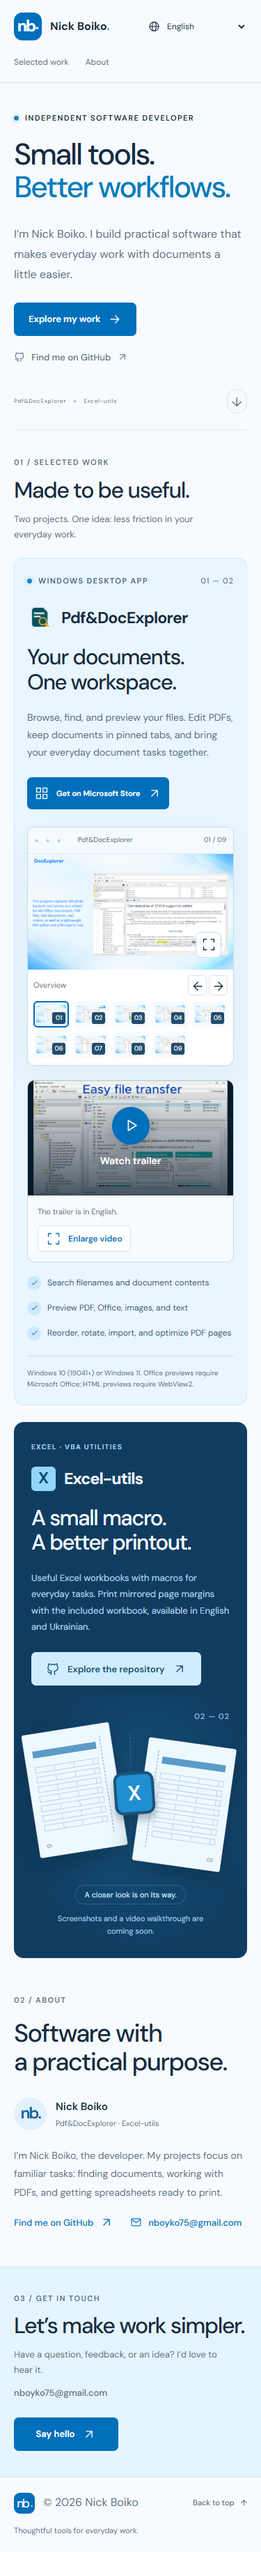
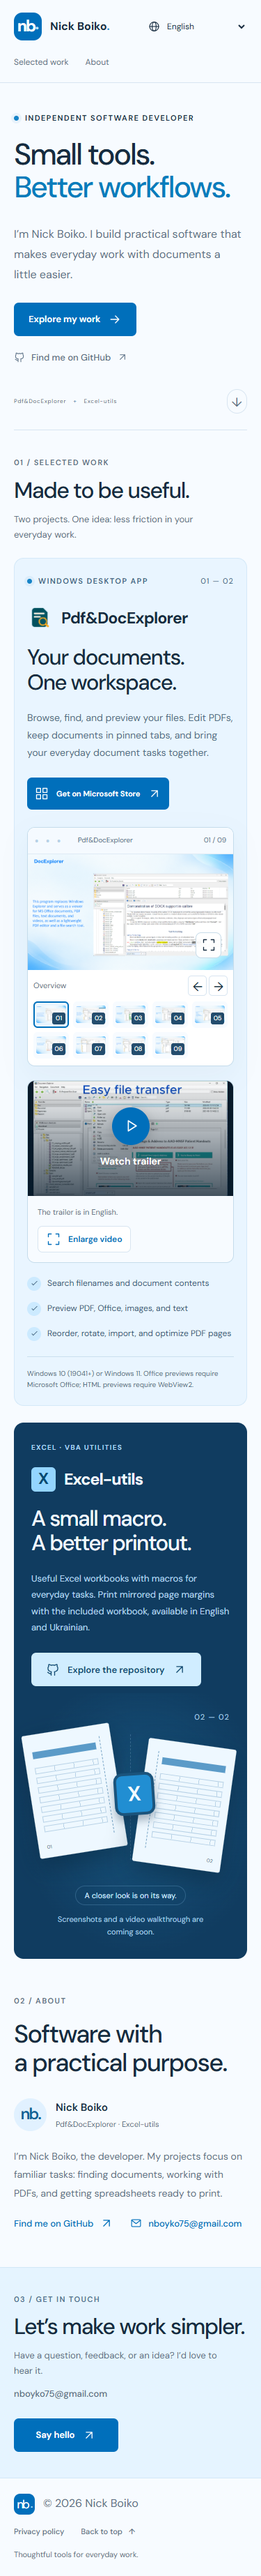
Added privacy page

Changed region(s): [[0.0293, 0.0311, 0.9387, 0.9964], [0.6747, 0.0623, 0.88, 0.0934]]

diff --git a/lib/privacy.ts b/lib/privacy.ts
@@ -1,0 +1,160 @@
+import type { Locale } from "./i18n";
+
+export const privacyUpdated = "2026-10-24";
+export const privacyEmail = "nboyko75@gmail.com";
+
+type PrivacyCopy = {
+  title: string;
+  home: string;
+  updated: string;
+  intro: string;
+  contact: string;
+  contactBody: string;
+  sections: { title: string; body: string }[];
+};
+
+export const privacyCopy: Record<Locale, PrivacyCopy> = {
+  en: {
+    title: "Privacy policy", home: "Back to home", updated: "Last updated",
+    intro: "This privacy policy applies to applications published by Nick Boiko that link to this page, including Pdf&DocExplorer and Excel-utils.",
+    contact: "Privacy questions", contactBody: "For questions about this policy or your personal information, contact Nick Boiko at:",
+    sections: [
+      { title: "Files and local processing", body: "The apps access files, document contents, file names, and folders on your device as needed for the features you use, such as browsing, searching, previewing, editing, scanning, or printing. This processing takes place on your device. Your files and their contents are not uploaded to Nick Boiko or third parties by the apps." },
+      { title: "Data collection and sharing", body: "The apps do not collect or transmit personal information to the developer or third parties. They do not include analytics, automatic crash reporting, advertising trackers, or cloud data collection. Nick Boiko does not sell or share personal information obtained through the apps." },
+      { title: "Support messages", body: "If you email Nick Boiko, your email address, message, and any attachments you choose to send are used to respond to your request. These messages are handled by email service providers and kept only as long as needed for support or legal obligations. Avoid sending sensitive documents. You can request access, correction, or deletion of your support correspondence using the contact below." },
+      { title: "Microsoft and other services", body: "Microsoft Store, Windows, Microsoft Office, and other services you choose to use operate under their own privacy policies. Their processing, including purchases, downloads, updates, or diagnostics, is separate from the apps’ local file processing. Files in folders you synchronize with a cloud service remain subject to that service’s settings and privacy policy." },
+      { title: "Storage, security, and your choices", body: "Your documents and app settings remain on your device or in locations you choose. You control access through your device and file permissions and can delete files or settings you no longer need. Uninstalling an app does not necessarily delete your documents. Protect your device and backups; local data security depends on your system’s protections. The developer cannot access, recover, or delete your local files remotely." },
+      { title: "Changes to this policy", body: "This policy will be updated when the apps’ data practices change. The date above identifies the latest revision. An app with different data practices must provide an updated policy describing them." },
+    ],
+  },
+  uk: {
+    title: "Політика конфіденційності", home: "На головну", updated: "Останнє оновлення",
+    intro: "Ця політика конфіденційності поширюється на програми Nick Boiko, які посилаються на цю сторінку, зокрема Pdf&DocExplorer та Excel-utils.",
+    contact: "Питання конфіденційності", contactBody: "Із запитаннями щодо цієї політики або ваших персональних даних звертайтеся до Nick Boiko:",
+    sections: [
+      { title: "Файли та локальне оброблення", body: "Програми отримують доступ до файлів, вмісту документів, назв файлів і папок на вашому пристрої, коли це потрібно для вибраних функцій: перегляду, пошуку, редагування, сканування або друку. Оброблення відбувається на вашому пристрої. Програми не передають ваші файли та їхній вміст Nick Boiko або третім особам." },
+      { title: "Збирання та передавання даних", body: "Програми не збирають і не передають персональні дані розробнику або третім особам. Вони не містять аналітики, автоматичного надсилання звітів про збої, рекламних трекерів або хмарного збирання даних. Nick Boiko не продає і не поширює персональні дані, отримані через програми." },
+      { title: "Звернення до підтримки", body: "Якщо ви пишете Nick Boiko електронною поштою, ваша адреса, повідомлення та добровільно надіслані вкладення використовуються для відповіді на звернення. Повідомлення обробляють постачальники електронної пошти; вони зберігаються лише протягом часу, необхідного для підтримки або виконання правових зобов’язань. Не надсилайте конфіденційні документи. За наведеними нижче контактами можна запросити доступ, виправлення або видалення вашого листування з підтримкою." },
+      { title: "Microsoft та інші служби", body: "Microsoft Store, Windows, Microsoft Office та інші служби, якими ви користуєтеся, мають власні політики конфіденційності. Оброблення даних цими службами, зокрема для покупок, завантажень, оновлень або діагностики, відокремлене від локального оброблення файлів програмами. Файли в папках, які ви синхронізуєте з хмарною службою, підпорядковуються налаштуванням і політиці цієї служби." },
+      { title: "Зберігання, безпека та ваш вибір", body: "Ваші документи та налаштування програм залишаються на вашому пристрої або у вибраних вами місцях. Ви керуєте доступом через дозволи пристрою та файлів і можете видаляти непотрібні файли або налаштування. Видалення програми не обов’язково видаляє документи. Захищайте пристрій і резервні копії: безпека локальних даних залежить від захисту системи. Розробник не може віддалено отримувати доступ до ваших локальних файлів, відновлювати чи видаляти їх." },
+      { title: "Зміни цієї політики", body: "Цю політику буде оновлено в разі зміни способів оброблення даних програмами. Дата вгорі вказує на останню редакцію. Програма з іншими способами оброблення даних має надавати оновлену політику з їхнім описом." },
+    ],
+  },
+  de: {
+    title: "Datenschutzerklärung", home: "Zur Startseite", updated: "Zuletzt aktualisiert",
+    intro: "Diese Datenschutzerklärung gilt für Anwendungen von Nick Boiko, die auf diese Seite verweisen, einschließlich Pdf&DocExplorer und Excel-utils.",
+    contact: "Fragen zum Datenschutz", contactBody: "Bei Fragen zu dieser Erklärung oder Ihren personenbezogenen Daten wenden Sie sich an Nick Boiko:",
+    sections: [
+      { title: "Dateien und lokale Verarbeitung", body: "Die Apps greifen auf Dateien, Dokumentinhalte, Dateinamen und Ordner auf Ihrem Gerät zu, soweit dies für verwendete Funktionen wie Durchsuchen, Suchen, Vorschau, Bearbeiten, Scannen oder Drucken erforderlich ist. Die Verarbeitung erfolgt auf Ihrem Gerät. Die Apps laden Ihre Dateien und deren Inhalte nicht zu Nick Boiko oder Dritten hoch." },
+      { title: "Datenerhebung und Weitergabe", body: "Die Apps erheben oder übermitteln keine personenbezogenen Daten an den Entwickler oder Dritte. Sie enthalten keine Analysefunktionen, automatischen Absturzberichte, Werbetracker oder cloudbasierte Datenerhebung. Nick Boiko verkauft oder teilt keine über die Apps erhaltenen personenbezogenen Daten." },
+      { title: "Supportnachrichten", body: "Wenn Sie Nick Boiko eine E-Mail senden, werden Ihre E-Mail-Adresse, Nachricht und freiwillig gesendeten Anhänge zur Beantwortung Ihrer Anfrage verwendet. Die Nachrichten werden von E-Mail-Dienstleistern verarbeitet und nur so lange aufbewahrt, wie dies für den Support oder gesetzliche Pflichten erforderlich ist. Senden Sie keine sensiblen Dokumente. Über den unten angegebenen Kontakt können Sie Auskunft, Berichtigung oder Löschung Ihrer Supportkorrespondenz anfordern." },
+      { title: "Microsoft und andere Dienste", body: "Für Microsoft Store, Windows, Microsoft Office und andere von Ihnen genutzte Dienste gelten eigene Datenschutzerklärungen. Deren Verarbeitung, etwa bei Käufen, Downloads, Updates oder Diagnosen, erfolgt unabhängig von der lokalen Dateiverarbeitung der Apps. Für Dateien in Ordnern, die Sie mit einem Clouddienst synchronisieren, gelten dessen Einstellungen und Datenschutzerklärung." },
+      { title: "Speicherung, Sicherheit und Ihre Möglichkeiten", body: "Ihre Dokumente und App-Einstellungen bleiben auf Ihrem Gerät oder an den von Ihnen gewählten Speicherorten. Sie steuern den Zugriff über Geräte- und Dateiberechtigungen und können nicht mehr benötigte Dateien oder Einstellungen löschen. Eine Deinstallation löscht Ihre Dokumente nicht zwangsläufig. Schützen Sie Ihr Gerät und Ihre Sicherungskopien; die Sicherheit lokaler Daten hängt vom Schutz Ihres Systems ab. Der Entwickler kann nicht aus der Ferne auf Ihre lokalen Dateien zugreifen, sie wiederherstellen oder löschen." },
+      { title: "Änderungen dieser Erklärung", body: "Diese Erklärung wird aktualisiert, wenn sich die Datenverarbeitung der Apps ändert. Das Datum oben kennzeichnet die aktuelle Fassung. Eine App mit abweichender Datenverarbeitung muss eine aktualisierte Erklärung bereitstellen, die diese beschreibt." },
+    ],
+  },
+  fr: {
+    title: "Politique de confidentialité", home: "Retour à l’accueil", updated: "Dernière mise à jour",
+    intro: "Cette politique de confidentialité s’applique aux applications publiées par Nick Boiko qui renvoient à cette page, notamment Pdf&DocExplorer et Excel-utils.",
+    contact: "Questions de confidentialité", contactBody: "Pour toute question concernant cette politique ou vos données personnelles, contactez Nick Boiko :",
+    sections: [
+      { title: "Fichiers et traitement local", body: "Les applications accèdent aux fichiers, au contenu des documents, aux noms de fichiers et aux dossiers de votre appareil selon les fonctions utilisées : navigation, recherche, aperçu, modification, numérisation ou impression. Ce traitement se déroule sur votre appareil. Les applications ne transmettent pas vos fichiers ni leur contenu à Nick Boiko ou à des tiers." },
+      { title: "Collecte et partage des données", body: "Les applications ne collectent ni ne transmettent de données personnelles au développeur ou à des tiers. Elles ne contiennent ni analyse d’utilisation, ni rapports automatiques de plantage, ni traceurs publicitaires, ni collecte de données dans le cloud. Nick Boiko ne vend ni ne partage les données personnelles obtenues via les applications." },
+      { title: "Messages d’assistance", body: "Si vous contactez Nick Boiko par e-mail, votre adresse, votre message et les pièces jointes que vous choisissez d’envoyer servent à répondre à votre demande. Ces messages sont traités par les fournisseurs de messagerie et conservés uniquement le temps nécessaire à l’assistance ou aux obligations légales. Évitez d’envoyer des documents sensibles. Vous pouvez demander l’accès, la rectification ou la suppression de votre correspondance d’assistance aux coordonnées ci-dessous." },
+      { title: "Microsoft et autres services", body: "Microsoft Store, Windows, Microsoft Office et les autres services que vous utilisez disposent de leurs propres politiques de confidentialité. Leurs traitements, notamment les achats, téléchargements, mises à jour ou diagnostics, sont distincts du traitement local des fichiers par les applications. Les fichiers de dossiers synchronisés avec un service cloud restent soumis aux paramètres et à la politique de ce service." },
+      { title: "Stockage, sécurité et vos choix", body: "Vos documents et paramètres restent sur votre appareil ou aux emplacements choisis. Vous contrôlez l’accès grâce aux autorisations de l’appareil et des fichiers et pouvez supprimer les fichiers ou paramètres inutiles. Désinstaller une application ne supprime pas nécessairement vos documents. Protégez votre appareil et vos sauvegardes : la sécurité des données locales dépend des protections du système. Le développeur ne peut pas accéder à distance à vos fichiers locaux, les récupérer ou les supprimer." },
+      { title: "Modifications de cette politique", body: "Cette politique sera mise à jour lorsque les pratiques de traitement des données des applications changeront. La date ci-dessus indique la dernière révision. Une application ayant des pratiques différentes doit fournir une politique actualisée les décrivant." },
+    ],
+  },
+  es: {
+    title: "Política de privacidad", home: "Volver al inicio", updated: "Última actualización",
+    intro: "Esta política de privacidad se aplica a las aplicaciones publicadas por Nick Boiko que enlazan a esta página, incluidas Pdf&DocExplorer y Excel-utils.",
+    contact: "Consultas de privacidad", contactBody: "Si tiene preguntas sobre esta política o sus datos personales, contacte con Nick Boiko:",
+    sections: [
+      { title: "Archivos y procesamiento local", body: "Las aplicaciones acceden a archivos, contenido de documentos, nombres de archivos y carpetas de su dispositivo según las funciones utilizadas, como explorar, buscar, previsualizar, editar, escanear o imprimir. El procesamiento se realiza en su dispositivo. Las aplicaciones no suben sus archivos ni su contenido a Nick Boiko ni a terceros." },
+      { title: "Recopilación y comunicación de datos", body: "Las aplicaciones no recopilan ni transmiten datos personales al desarrollador ni a terceros. No incluyen analítica, informes automáticos de fallos, rastreadores publicitarios ni recopilación de datos en la nube. Nick Boiko no vende ni comparte datos personales obtenidos a través de las aplicaciones." },
+      { title: "Mensajes de soporte", body: "Si envía un correo a Nick Boiko, su dirección, mensaje y los archivos adjuntos que decida enviar se usan para responder a su solicitud. Los proveedores de correo procesan estos mensajes, que se conservan solo el tiempo necesario para el soporte o las obligaciones legales. Evite enviar documentos sensibles. Puede solicitar acceso, rectificación o eliminación de su correspondencia de soporte mediante el contacto indicado abajo." },
+      { title: "Microsoft y otros servicios", body: "Microsoft Store, Windows, Microsoft Office y otros servicios que utilice se rigen por sus propias políticas de privacidad. Su procesamiento, incluidas compras, descargas, actualizaciones o diagnósticos, es independiente del procesamiento local de archivos de las aplicaciones. Los archivos de carpetas sincronizadas con un servicio en la nube están sujetos a la configuración y política de dicho servicio." },
+      { title: "Almacenamiento, seguridad y sus opciones", body: "Sus documentos y ajustes permanecen en su dispositivo o en las ubicaciones que elija. Usted controla el acceso mediante los permisos del dispositivo y los archivos, y puede eliminar los archivos o ajustes que ya no necesite. Desinstalar una aplicación no elimina necesariamente sus documentos. Proteja su dispositivo y sus copias de seguridad: la seguridad local depende de las protecciones del sistema. El desarrollador no puede acceder, recuperar ni eliminar sus archivos locales de forma remota." },
+      { title: "Cambios en esta política", body: "Esta política se actualizará cuando cambien las prácticas de datos de las aplicaciones. La fecha anterior identifica la última revisión. Una aplicación con prácticas diferentes debe proporcionar una política actualizada que las describa." },
+    ],
+  },
+  it: {
+    title: "Informativa sulla privacy", home: "Torna alla home", updated: "Ultimo aggiornamento",
+    intro: "Questa informativa si applica alle applicazioni pubblicate da Nick Boiko che rimandano a questa pagina, tra cui Pdf&DocExplorer ed Excel-utils.",
+    contact: "Domande sulla privacy", contactBody: "Per domande su questa informativa o sui tuoi dati personali, contatta Nick Boiko:",
+    sections: [
+      { title: "File ed elaborazione locale", body: "Le app accedono a file, contenuti dei documenti, nomi dei file e cartelle del dispositivo secondo le funzioni utilizzate, come esplorazione, ricerca, anteprima, modifica, scansione o stampa. L’elaborazione avviene sul dispositivo. Le app non caricano i tuoi file o i loro contenuti su servizi di Nick Boiko o di terzi." },
+      { title: "Raccolta e condivisione dei dati", body: "Le app non raccolgono né trasmettono dati personali allo sviluppatore o a terzi. Non includono analisi dell’utilizzo, segnalazioni automatiche degli arresti anomali, tracciatori pubblicitari o raccolta dati nel cloud. Nick Boiko non vende né condivide dati personali ottenuti tramite le app." },
+      { title: "Messaggi di assistenza", body: "Se scrivi a Nick Boiko, il tuo indirizzo e-mail, il messaggio e gli allegati che scegli di inviare vengono usati per rispondere alla richiesta. I messaggi sono trattati dai fornitori di posta elettronica e conservati solo per il tempo necessario all’assistenza o agli obblighi di legge. Evita di inviare documenti sensibili. Puoi richiedere accesso, rettifica o cancellazione della corrispondenza di assistenza usando il contatto riportato sotto." },
+      { title: "Microsoft e altri servizi", body: "Microsoft Store, Windows, Microsoft Office e gli altri servizi che usi operano secondo le proprie informative sulla privacy. Il loro trattamento, inclusi acquisti, download, aggiornamenti o diagnostica, è distinto dall’elaborazione locale dei file nelle app. I file nelle cartelle sincronizzate con un servizio cloud restano soggetti alle impostazioni e all’informativa di quel servizio." },
+      { title: "Conservazione, sicurezza e scelte", body: "I documenti e le impostazioni restano sul tuo dispositivo o nelle posizioni scelte. Controlli l’accesso tramite le autorizzazioni del dispositivo e dei file e puoi eliminare file o impostazioni non più necessari. Disinstallare un’app non elimina necessariamente i documenti. Proteggi il dispositivo e i backup: la sicurezza dei dati locali dipende dalle protezioni del sistema. Lo sviluppatore non può accedere, recuperare o eliminare i tuoi file locali da remoto." },
+      { title: "Modifiche a questa informativa", body: "L’informativa verrà aggiornata quando cambieranno le pratiche di trattamento dei dati delle app. La data sopra indica l’ultima revisione. Un’app con pratiche diverse deve fornire un’informativa aggiornata che le descriva." },
+    ],
+  },
+  "pt-BR": {
+    title: "Política de privacidade", home: "Voltar ao início", updated: "Última atualização",
+    intro: "Esta política de privacidade se aplica aos aplicativos publicados por Nick Boiko que direcionam para esta página, incluindo Pdf&DocExplorer e Excel-utils.",
+    contact: "Dúvidas sobre privacidade", contactBody: "Para dúvidas sobre esta política ou seus dados pessoais, entre em contato com Nick Boiko:",
+    sections: [
+      { title: "Arquivos e processamento local", body: "Os aplicativos acessam arquivos, conteúdo de documentos, nomes de arquivos e pastas no seu dispositivo conforme as funções utilizadas, como navegação, pesquisa, visualização, edição, digitalização ou impressão. O processamento ocorre no seu dispositivo. Os aplicativos não enviam seus arquivos nem seu conteúdo a Nick Boiko ou a terceiros." },
+      { title: "Coleta e compartilhamento de dados", body: "Os aplicativos não coletam nem transmitem dados pessoais ao desenvolvedor ou a terceiros. Não incluem análise de uso, relatórios automáticos de falhas, rastreadores de publicidade ou coleta de dados na nuvem. Nick Boiko não vende nem compartilha dados pessoais obtidos pelos aplicativos." },
+      { title: "Mensagens de suporte", body: "Se você enviar um e-mail a Nick Boiko, seu endereço, mensagem e anexos enviados por escolha própria serão usados para responder à solicitação. Os provedores de e-mail processam essas mensagens, que são mantidas apenas pelo tempo necessário ao suporte ou às obrigações legais. Evite enviar documentos sensíveis. Você pode solicitar acesso, correção ou exclusão da correspondência de suporte pelo contato abaixo." },
+      { title: "Microsoft e outros serviços", body: "Microsoft Store, Windows, Microsoft Office e outros serviços que você utiliza seguem suas próprias políticas de privacidade. O processamento deles, incluindo compras, downloads, atualizações ou diagnósticos, é separado do processamento local de arquivos dos aplicativos. Arquivos em pastas sincronizadas com um serviço de nuvem estão sujeitos às configurações e à política desse serviço." },
+      { title: "Armazenamento, segurança e suas escolhas", body: "Seus documentos e configurações permanecem no dispositivo ou nos locais escolhidos. Você controla o acesso pelas permissões do dispositivo e dos arquivos e pode excluir arquivos ou configurações desnecessários. Desinstalar um aplicativo não exclui necessariamente seus documentos. Proteja seu dispositivo e backups: a segurança dos dados locais depende das proteções do sistema. O desenvolvedor não pode acessar, recuperar ou excluir seus arquivos locais remotamente." },
+      { title: "Alterações nesta política", body: "Esta política será atualizada quando as práticas de dados dos aplicativos mudarem. A data acima indica a última revisão. Um aplicativo com práticas diferentes deve fornecer uma política atualizada que as descreva." },
+    ],
+  },
+  ja: {
+    title: "プライバシーポリシー", home: "ホームに戻る", updated: "最終更新日",
+    intro: "このプライバシーポリシーは、Pdf&DocExplorer、Excel-utilsなど、このページにリンクするNick Boiko公開のアプリケーションに適用されます。",
+    contact: "プライバシーに関するお問い合わせ", contactBody: "本ポリシーや個人情報についてのご質問は、Nick Boikoまでお問い合わせください。",
+    sections: [
+      { title: "ファイルと端末内での処理", body: "アプリは、閲覧、検索、プレビュー、編集、スキャン、印刷など、利用する機能に必要な範囲で端末上のファイル、文書の内容、ファイル名、フォルダーにアクセスします。処理は端末内で行われます。アプリがファイルやその内容をNick Boikoや第三者にアップロードすることはありません。" },
+      { title: "データの収集と共有", body: "アプリは個人情報を収集したり、開発者や第三者に送信したりしません。利用状況の分析、自動クラッシュ報告、広告トラッカー、クラウドでのデータ収集は含まれていません。Nick Boikoは、アプリを通じて得た個人情報を販売または共有しません。" },
+      { title: "サポートへのお問い合わせ", body: "Nick Boikoにメールを送る場合、メールアドレス、本文、ご自身の判断で送信した添付ファイルは、お問い合わせへの対応に使用されます。メールはメールサービス提供者によって処理され、サポートや法的義務に必要な期間のみ保存されます。機密文書の送信はお控えください。下記の連絡先から、サポートに関するやり取りの開示、訂正、削除を依頼できます。" },
+      { title: "Microsoftおよびその他のサービス", body: "Microsoft Store、Windows、Microsoft Office、およびご利用のその他のサービスには、それぞれのプライバシーポリシーが適用されます。購入、ダウンロード、更新、診断などの処理は、アプリによる端末内のファイル処理とは別です。クラウドサービスと同期するフォルダー内のファイルには、そのサービスの設定とポリシーが適用されます。" },
+      { title: "保存、安全性、利用者の選択", body: "文書とアプリ設定は、ご自身の端末または選択した保存先に残ります。端末やファイルの権限でアクセスを管理し、不要なファイルや設定を削除できます。アプリをアンインストールしても、文書が必ず削除されるわけではありません。端末とバックアップを保護してください。ローカルデータの安全性はシステムの保護機能に依存します。開発者がローカルファイルに遠隔でアクセスしたり、復元・削除したりすることはできません。" },
+      { title: "ポリシーの変更", body: "アプリのデータの取り扱いが変わる場合、本ポリシーを更新します。上記の日付は最終改訂日です。異なる取り扱いを行うアプリは、その内容を説明する更新済みのポリシーを提供する必要があります。" },
+    ],
+  },
+  ko: {
+    title: "개인정보 처리방침", home: "홈으로 돌아가기", updated: "최종 수정일",
+    intro: "이 개인정보 처리방침은 Pdf&DocExplorer 및 Excel-utils를 포함하여 이 페이지로 연결되는 Nick Boiko의 앱에 적용됩니다.",
+    contact: "개인정보 관련 문의", contactBody: "이 방침 또는 개인정보에 관한 질문은 Nick Boiko에게 문의해 주세요.",
+    sections: [
+      { title: "파일 및 기기 내 처리", body: "앱은 탐색, 검색, 미리 보기, 편집, 스캔 또는 인쇄 등 사용자가 이용하는 기능에 필요한 범위에서 기기의 파일, 문서 내용, 파일 이름 및 폴더에 접근합니다. 처리는 기기에서 이루어집니다. 앱은 파일이나 내용을 Nick Boiko 또는 제3자에게 업로드하지 않습니다." },
+      { title: "데이터 수집 및 공유", body: "앱은 개인정보를 수집하거나 개발자 또는 제3자에게 전송하지 않습니다. 사용 분석, 자동 오류 보고, 광고 추적기 또는 클라우드 데이터 수집 기능을 포함하지 않습니다. Nick Boiko는 앱을 통해 얻은 개인정보를 판매하거나 공유하지 않습니다." },
+      { title: "지원 문의", body: "Nick Boiko에게 이메일을 보내면 이메일 주소, 메시지 및 자발적으로 보낸 첨부 파일을 문의에 답변하는 데 사용합니다. 이메일 서비스 제공업체가 메시지를 처리하며, 지원 또는 법적 의무에 필요한 기간 동안만 보관합니다. 민감한 문서는 보내지 마세요. 아래 연락처로 지원 관련 서신의 열람, 정정 또는 삭제를 요청할 수 있습니다." },
+      { title: "Microsoft 및 기타 서비스", body: "Microsoft Store, Windows, Microsoft Office 및 사용자가 선택한 기타 서비스에는 각각의 개인정보 처리방침이 적용됩니다. 구매, 다운로드, 업데이트 또는 진단을 포함한 해당 서비스의 처리는 앱의 로컬 파일 처리와 별개입니다. 클라우드 서비스와 동기화하는 폴더의 파일에는 해당 서비스의 설정과 방침이 적용됩니다." },
+      { title: "보관, 보안 및 사용자 선택", body: "문서와 앱 설정은 기기 또는 사용자가 선택한 위치에 남습니다. 기기 및 파일 권한으로 접근을 제어하고 불필요한 파일이나 설정을 삭제할 수 있습니다. 앱을 제거해도 문서가 반드시 삭제되는 것은 아닙니다. 기기와 백업을 보호해 주세요. 로컬 데이터의 보안은 시스템 보호 기능에 달려 있습니다. 개발자는 로컬 파일에 원격으로 접근하거나 파일을 복구 또는 삭제할 수 없습니다." },
+      { title: "방침 변경", body: "앱의 데이터 처리 방식이 변경되면 이 방침을 업데이트합니다. 위 날짜는 최종 개정일입니다. 처리 방식이 다른 앱은 해당 내용을 설명하는 업데이트된 방침을 제공해야 합니다." },
+    ],
+  },
+  "zh-CN": {
+    title: "隐私政策", home: "返回首页", updated: "最后更新日期",
+    intro: "本隐私政策适用于由Nick Boiko发布并链接至此页面的应用程序，包括Pdf&DocExplorer和Excel-utils。",
+    contact: "隐私问题", contactBody: "如对本政策或您的个人信息有任何疑问，请联系Nick Boiko：",
+    sections: [
+      { title: "文件与本地处理", body: "应用根据您使用的浏览、搜索、预览、编辑、扫描或打印等功能的需要，访问设备上的文件、文档内容、文件名和文件夹。处理在您的设备上进行。应用不会将您的文件及其内容上传给Nick Boiko或第三方。" },
+      { title: "数据收集与共享", body: "应用不会收集个人信息，也不会将个人信息传输给开发者或第三方。应用不包含使用情况分析、自动崩溃报告、广告跟踪器或云端数据收集功能。Nick Boiko不会出售或共享通过应用获得的个人信息。" },
+      { title: "支持邮件", body: "如果您向Nick Boiko发送电子邮件，您的邮箱地址、邮件正文及自愿发送的附件将用于回复您的请求。这些邮件由电子邮件服务提供商处理，仅在支持服务或法律义务所需的期限内保留。请避免发送敏感文档。您可以通过下方联系方式请求访问、更正或删除您的支持通信记录。" },
+      { title: "Microsoft及其他服务", body: "Microsoft Store、Windows、Microsoft Office及您选择使用的其他服务各自适用其隐私政策。这些服务的数据处理，包括购买、下载、更新或诊断，与应用的本地文件处理相互独立。与云服务同步的文件夹中的文件仍受该服务的设置和隐私政策约束。" },
+      { title: "存储、安全与您的选择", body: "您的文档和应用设置保留在您的设备或您选择的位置。您可以通过设备及文件权限控制访问，并删除不再需要的文件或设置。卸载应用不一定会删除您的文档。请保护您的设备和备份；本地数据安全取决于系统的保护措施。开发者无法远程访问、恢复或删除您的本地文件。" },
+      { title: "政策变更", body: "应用的数据处理方式发生变化时，本政策将相应更新。上方日期表示最新修订日期。数据处理方式不同的应用必须提供更新后的政策，说明其具体做法。" },
+    ],
+  },
+  ru: {
+    title: "Политика конфиденциальности", home: "На главную", updated: "Последнее обновление",
+    intro: "Эта политика конфиденциальности распространяется на приложения Nick Boiko, которые ссылаются на эту страницу, включая Pdf&DocExplorer и Excel-utils.",
+    contact: "Вопросы конфиденциальности", contactBody: "По вопросам об этой политике или ваших персональных данных обращайтесь к Nick Boiko:",
+    sections: [
+      { title: "Файлы и локальная обработка", body: "Приложения получают доступ к файлам, содержимому документов, именам файлов и папкам на вашем устройстве по мере необходимости для выбранных функций: просмотра, поиска, редактирования, сканирования или печати. Обработка выполняется на вашем устройстве. Приложения не передают ваши файлы и их содержимое Nick Boiko или третьим лицам." },
+      { title: "Сбор и передача данных", body: "Приложения не собирают и не передают персональные данные разработчику или третьим лицам. Они не содержат аналитики, автоматической отправки отчётов о сбоях, рекламных трекеров или облачного сбора данных. Nick Boiko не продаёт и не передаёт персональные данные, полученные через приложения." },
+      { title: "Обращения в поддержку", body: "Если вы пишете Nick Boiko по электронной почте, ваш адрес, сообщение и добровольно отправленные вложения используются для ответа на обращение. Сообщения обрабатываются поставщиками электронной почты и хранятся только в течение срока, необходимого для поддержки или выполнения правовых обязательств. Не отправляйте конфиденциальные документы. По указанным ниже контактам можно запросить доступ, исправление или удаление вашей переписки с поддержкой." },
+      { title: "Microsoft и другие службы", body: "Microsoft Store, Windows, Microsoft Office и другие используемые вами службы имеют собственные политики конфиденциальности. Их обработка данных, в том числе для покупок, загрузок, обновлений или диагностики, отделена от локальной обработки файлов приложениями. К файлам в папках, синхронизируемых с облачной службой, применяются настройки и политика этой службы." },
+      { title: "Хранение, безопасность и ваш выбор", body: "Ваши документы и настройки приложений остаются на вашем устройстве или в выбранных вами местах. Вы управляете доступом через разрешения устройства и файлов и можете удалять ненужные файлы или настройки. Удаление приложения не обязательно удаляет документы. Защищайте устройство и резервные копии: безопасность локальных данных зависит от защиты системы. Разработчик не может удалённо получать доступ к вашим локальным файлам, восстанавливать или удалять их." },
+      { title: "Изменения этой политики", body: "Эта политика будет обновлена при изменении способов обработки данных приложениями. Дата выше указывает последнюю редакцию. Приложение с другими способами обработки данных должно предоставлять обновлённую политику с их описанием." },
+    ],
+  },
+};

diff --git a/app/portfolio.tsx b/app/portfolio.tsx
@@ -4,6 +4,7 @@ import { useEffect, useRef, useState } from "react";
 import { dictionaries, locales, resolveLocale, type Locale } from "../lib/i18n";
 import { getScreenshots, media } from "../lib/media";
 import { assetUrl } from "../lib/site-path";
+import { privacyCopy } from "../lib/privacy";
 
 type IconName = "arrow" | "up" | "play" | "globe" | "github" | "check" | "windows" | "close" | "expand" | "mail";
 function Icon({ name, className = "" }: { name: IconName; className?: string }) {
@@ -149,7 +150,7 @@ export default function Portfolio({ excelMedia }: { excelMedia: { image: boolean
       <section className="about-section container" id="about" aria-labelledby="about-title"><div><div className="eyebrow">02 / {copy.about}</div><h2 id="about-title">{copy.aboutTitle}</h2></div><div className="about-copy"><div className="author"><span className="author-avatar" aria-hidden="true">nb.</span><span>Nick Boiko<small>Pdf&DocExplorer · Excel-utils</small></span></div><p>{copy.aboutDescription}</p><div className="about-links"><a href={PROFILE} target="_blank" rel="noreferrer" className="text-link">{copy.github}<Icon name="up" /></a><a href="mailto:nboyko75@gmail.com" className="text-link about-email"><Icon name="mail" />nboyko75@gmail.com</a></div></div></section>
       <section className="contact-section" id="contact" aria-labelledby="contact-title"><div className="container contact-inner"><div><div className="eyebrow">03 / {copy.contact}</div><h2 id="contact-title">{copy.contactTitle}</h2><p>{copy.contactDescription}</p><p><a href="mailto:nboyko75@gmail.com" className="text-link">nboyko75@gmail.com</a></p></div><a href="mailto:nboyko75@gmail.com" className="button primary">{copy.email}<Icon name="up" /></a></div></section>
     </main>
-    <footer className="container"><a className="brand footer-brand" href="#top"><span className="monogram">nb<span>.</span></span><span>© {new Date().getFullYear()} Nick Boiko</span></a><span>{copy.footer}</span><a href="#top" className="text-link">{copy.backTop}<span aria-hidden="true">↑</span></a></footer>
+    <footer className="container"><a className="brand footer-brand" href="#top"><span className="monogram">nb<span>.</span></span><span>© {new Date().getFullYear()} Nick Boiko</span></a><span>{copy.footer}</span><div className="footer-links"><a href={`${assetUrl("/privacy/")}?lang=${encodeURIComponent(locale)}`} className="text-link">{privacyCopy[locale].title}</a><a href="#top" className="text-link">{copy.backTop}<span aria-hidden="true">↑</span></a></div></footer>
     <dialog ref={dialog} className="media-dialog" aria-label={modal === "image" ? currentScreenshot.caption : copy.watch} onCancel={event => { event.preventDefault(); closeModal(); }} onClick={event => { if (event.target === event.currentTarget) closeModal(); }} onKeyDown={event => { if (modal === "image" && event.key === "ArrowLeft") moveImage(-1); if (modal === "image" && event.key === "ArrowRight") moveImage(1); }}>
       {modal && <div className="dialog-content"><div className="dialog-toolbar"><span>{modal === "image" ? currentScreenshot.caption : `${modal === "dox-video" ? "Pdf&DocExplorer" : "Excel-utils"} — ${copy.watch}`}</span><button onClick={closeModal} aria-label={copy.close} autoFocus><Icon name="close" /></button></div>{modal === "image" ? <><img src={assetUrl(currentScreenshot.src)} alt={`Pdf&DocExplorer — ${currentScreenshot.caption}`} /><div className="dialog-gallery-controls"><button onClick={() => moveImage(-1)} aria-label={copy.previous}>←</button><span>{galleryIndex + 1} / {screenshots.length}</span><button onClick={() => moveImage(1)} aria-label={copy.next}>→</button></div></> : <video ref={modalVideo} controls autoPlay playsInline preload="none" onLoadedMetadata={event => {
         if (modal === "dox-video") {

diff --git a/app/privacy/privacy-policy.tsx b/app/privacy/privacy-policy.tsx
@@ -1,0 +1,56 @@
+"use client";
+
+import { useEffect, useState } from "react";
+import { dictionaries, locales, resolveLocale, type Locale } from "../../lib/i18n";
+import { privacyCopy, privacyEmail, privacyUpdated } from "../../lib/privacy";
+import { assetUrl } from "../../lib/site-path";
+
+export default function PrivacyPolicy() {
+  const [locale, setLocale] = useState<Locale>("en");
+  const copy = privacyCopy[locale];
+  const shared = dictionaries[locale];
+  const home = `${assetUrl("/")}?lang=${encodeURIComponent(locale)}`;
+
+  useEffect(() => {
+    function readLanguage() {
+      let saved: string | null = null;
+      try { saved = localStorage.getItem("portfolio-language"); } catch { /* Private browsing. */ }
+      setLocale(resolveLocale(new URLSearchParams(location.search).get("lang")) ?? resolveLocale(saved) ?? navigator.languages.map(resolveLocale).find(Boolean) ?? "en");
+    }
+    readLanguage();
+    addEventListener("popstate", readLanguage);
+    return () => removeEventListener("popstate", readLanguage);
+  }, []);
+
+  useEffect(() => {
+    document.documentElement.lang = locale;
+    document.title = `${copy.title} — Nick Boiko`;
+    document.querySelector('meta[name="description"]')?.setAttribute("content", copy.intro);
+  }, [locale, copy]);
+
+  function changeLocale(value: string) {
+    const next = resolveLocale(value) ?? "en";
+    setLocale(next);
+    try { localStorage.setItem("portfolio-language", next); } catch { /* URL still persists language. */ }
+    const url = new URL(location.href);
+    url.searchParams.set("lang", next);
+    history.replaceState(null, "", url);
+  }
+
+  return <>
+    <a className="skip-link" href="#main">{shared.skip}</a>
+    <header className="site-header privacy-header" id="top">
+      <a href={home} className="brand"><span className="monogram">nb<span>.</span></span><span>Nick Boiko<span className="brand-dot">.</span></span></a>
+      <div className="header-actions"><label className="language-select"><span className="sr-only">{shared.language}</span><select value={locale} onChange={event => changeLocale(event.target.value)} aria-label={shared.language}>{locales.map(([code, name]) => <option key={code} value={code}>{name}</option>)}</select></label></div>
+    </header>
+    <main id="main" className="privacy-main container">
+      <a href={home} className="text-link privacy-home"><span aria-hidden="true">←</span>{copy.home}</a>
+      <article aria-labelledby="privacy-title">
+        <div className="privacy-intro"><h1 id="privacy-title">{copy.title}</h1><p className="privacy-date">{copy.updated}: <time dateTime={privacyUpdated}>{new Intl.DateTimeFormat(locale, { dateStyle: "long", timeZone: "UTC" }).format(new Date(`${privacyUpdated}T00:00:00Z`))}</time></p><p>{copy.intro}</p></div>
+        <div className="privacy-sections">{copy.sections.map((section, index) => <section key={index} aria-labelledby={`privacy-section-${index}`}><h2 id={`privacy-section-${index}`}>{section.title}</h2><p>{section.body}</p></section>)}</div>
+        <section className="privacy-contact" aria-labelledby="privacy-contact"><h2 id="privacy-contact">{copy.contact}</h2><p>{copy.contactBody}</p><a className="text-link" href={`mailto:${privacyEmail}`}>{privacyEmail}</a></section>
+      </article>
+    </main>
+    <footer className="container privacy-footer"><span>© {new Date().getFullYear()} Nick Boiko</span><a className="text-link" href={home}>{copy.home}<span aria-hidden="true">↗</span></a></footer>
+  </>;
+}

diff --git a/app/globals.css b/app/globals.css
@@ -26,3 +26,19 @@
 .dox-media+.project-notes{margin-top:22px}
 @media(max-width:1000px){.dox-media{grid-template-columns:1fr}.dox-media-sidebar{display:grid;grid-template-columns:minmax(0,1fr) minmax(0,1fr);gap:24px}.dox-media-sidebar .feature-list{margin:0;align-content:center}}
 @media(max-width:760px){.dox-media-sidebar{grid-template-columns:1fr;gap:20px}.dox-media{gap:20px}}
+
+.footer-links{display:flex;flex-wrap:wrap;align-items:center;gap:12px 24px}.footer-links .text-link{font-size:11px}
+.privacy-header .header-actions{margin-left:auto}
+.privacy-main{max-width:850px;padding-top:38px;padding-bottom:72px}
+.privacy-home{color:var(--azure);margin-bottom:38px}
+.privacy-intro{padding-bottom:32px;border-bottom:1px solid var(--line)}
+.privacy-intro h1{font-size:clamp(34px,5vw,60px);letter-spacing:-.045em;line-height:1.15;overflow-wrap:anywhere}
+.privacy-intro>p:last-child{font-size:18px;line-height:1.8;color:var(--muted);max-width:720px}
+.privacy-date{font-size:13px;color:var(--muted);margin:20px 0}
+.privacy-sections{display:grid;gap:30px;padding-block:34px}
+.privacy-sections h2,.privacy-contact h2{font-size:23px;line-height:1.35;letter-spacing:-.025em;margin-bottom:12px}
+.privacy-sections p,.privacy-contact p{font-size:16px;line-height:1.85;color:var(--muted);overflow-wrap:anywhere}
+.privacy-contact{background:var(--ice);border:1px solid var(--line);border-radius:14px;padding:28px}
+.privacy-contact a{margin-top:16px;color:var(--azure);overflow-wrap:anywhere}
+.privacy-footer{border-top:1px solid var(--line)}
+@media(max-width:760px){.privacy-main{padding-top:24px;padding-bottom:44px}.privacy-home{margin-bottom:28px}.privacy-intro>p:last-child{font-size:16px}.privacy-contact{padding:22px}.privacy-footer{align-items:flex-start}.footer-links{justify-content:center}}

diff --git a/app/privacy/page.tsx b/app/privacy/page.tsx
@@ -1,0 +1,11 @@
+import type { Metadata } from "next";
+import PrivacyPolicy from "./privacy-policy";
+
+export const metadata: Metadata = {
+  title: "Privacy policy — Nick Boiko",
+  description: "Privacy policy for applications published by Nick Boiko, including Pdf&DocExplorer and Excel-utils.",
+};
+
+export default function PrivacyPage() {
+  return <PrivacyPolicy />;
+}

diff --git a/README.md b/README.md
@@ -1,6 +1,6 @@
 # Nick Boiko — developer portfolio
 
-A responsive single-page portfolio built with React 19, Next.js 16 App Router, and TypeScript. It exports a static site; no backend or external services are needed at runtime.
+A responsive portfolio with a dedicated privacy policy page, built with React 19, Next.js 16 App Router, and TypeScript. It exports a static site; no backend or external services are needed at runtime.
 
 ## Run
 
@@ -86,7 +86,30 @@ Add your files and rebuild. The screenshot replaces the illustrated placeholder 
 
 ## Editing
 
+### App privacy policy
+
+The standalone `/NBWebsite/privacy/` page is linked from the portfolio footer and
+supports all eleven site languages. Its English text is included in the static
+HTML, so the policy can be read without JavaScript, cookies, or a sign-in.
+
+After deploying through the existing GitHub Pages workflow, use this URL in each
+app's Microsoft Partner Center privacy policy field:
+
+https://nboyko75.github.io/NBWebsite/privacy/
+
+The policy covers apps published by Nick Boiko that link to it, including
+Pdf&DocExplorer and Excel-utils. The publisher confirmed that these apps process
+files locally and do not transmit app data to the developer or third parties.
+Support correspondence and independent third-party services are described separately.
+Only reuse this policy for apps with these data practices. Update the text in
+`lib/privacy.ts` (all locales) and its revision date whenever practices change.
+Adding this page locally does not deploy it; publishing uses the existing workflow.
+
+### Source files
+
 - `app/portfolio.tsx`: sections, gallery, modal video players, and navigation.
+- `app/privacy/`: standalone app privacy policy page and language selection.
+- `lib/privacy.ts`: localized policy text, contact address, and revision date.
 - `app/globals.css`: responsive design and reduced-motion support.
 - `lib/i18n.ts`: translations and language negotiation. All dictionaries must have the same fields; tests check full coverage.
 - `app/page.tsx`: build-time optional media detection.
